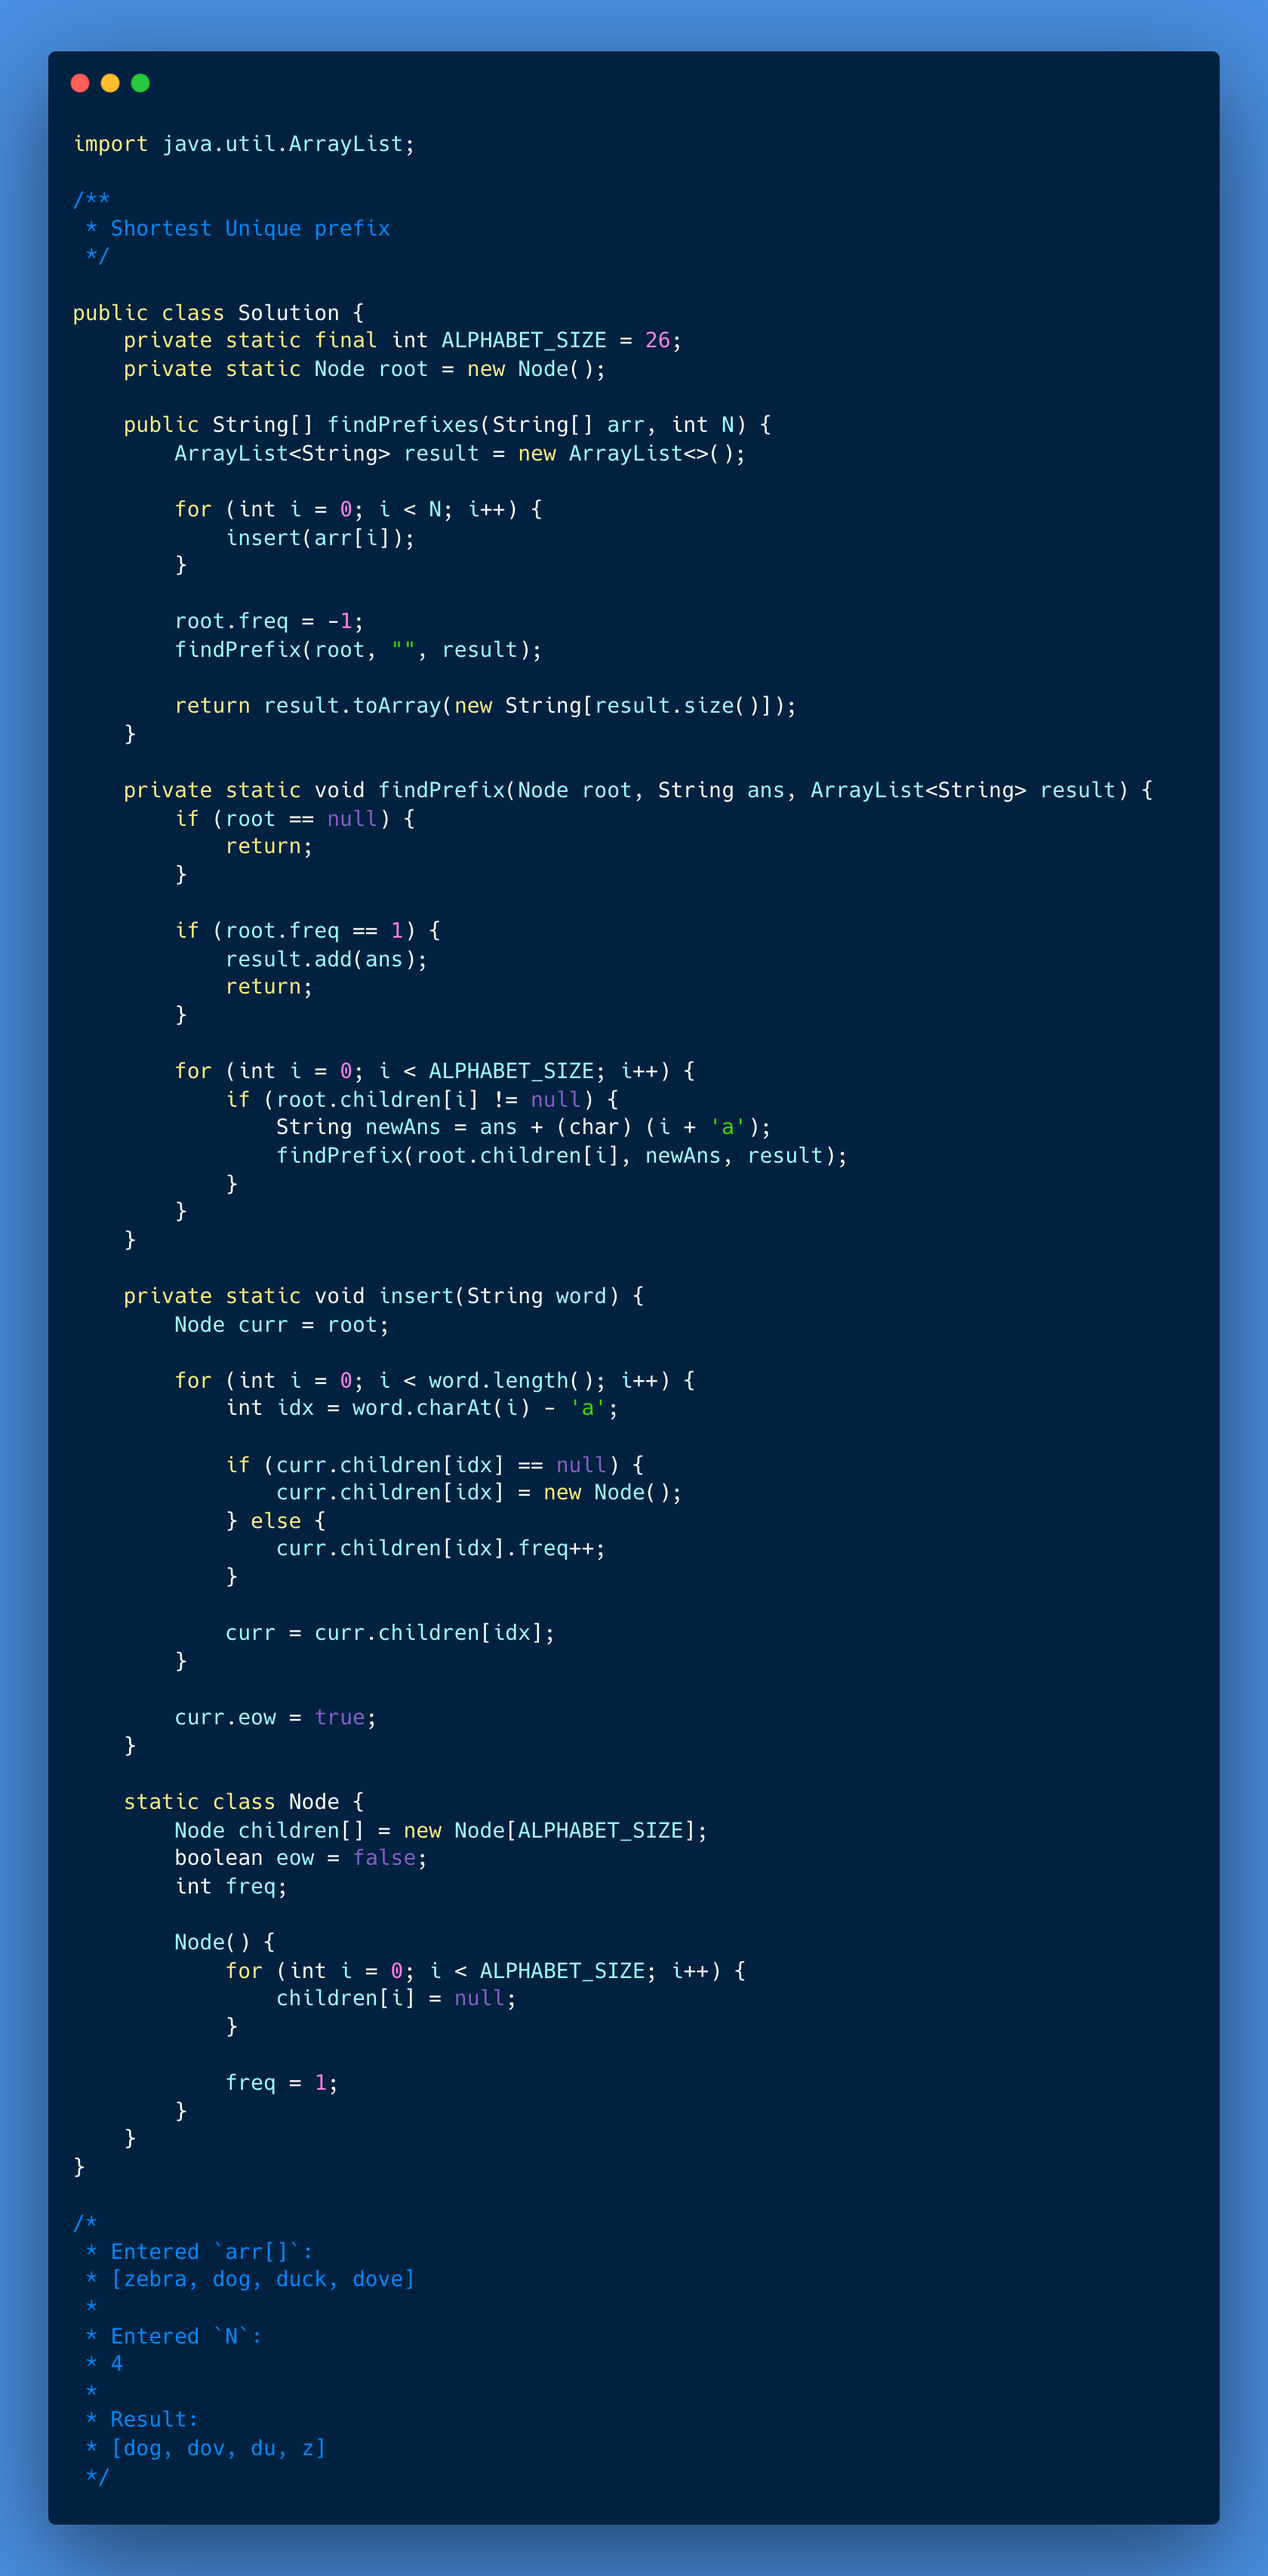
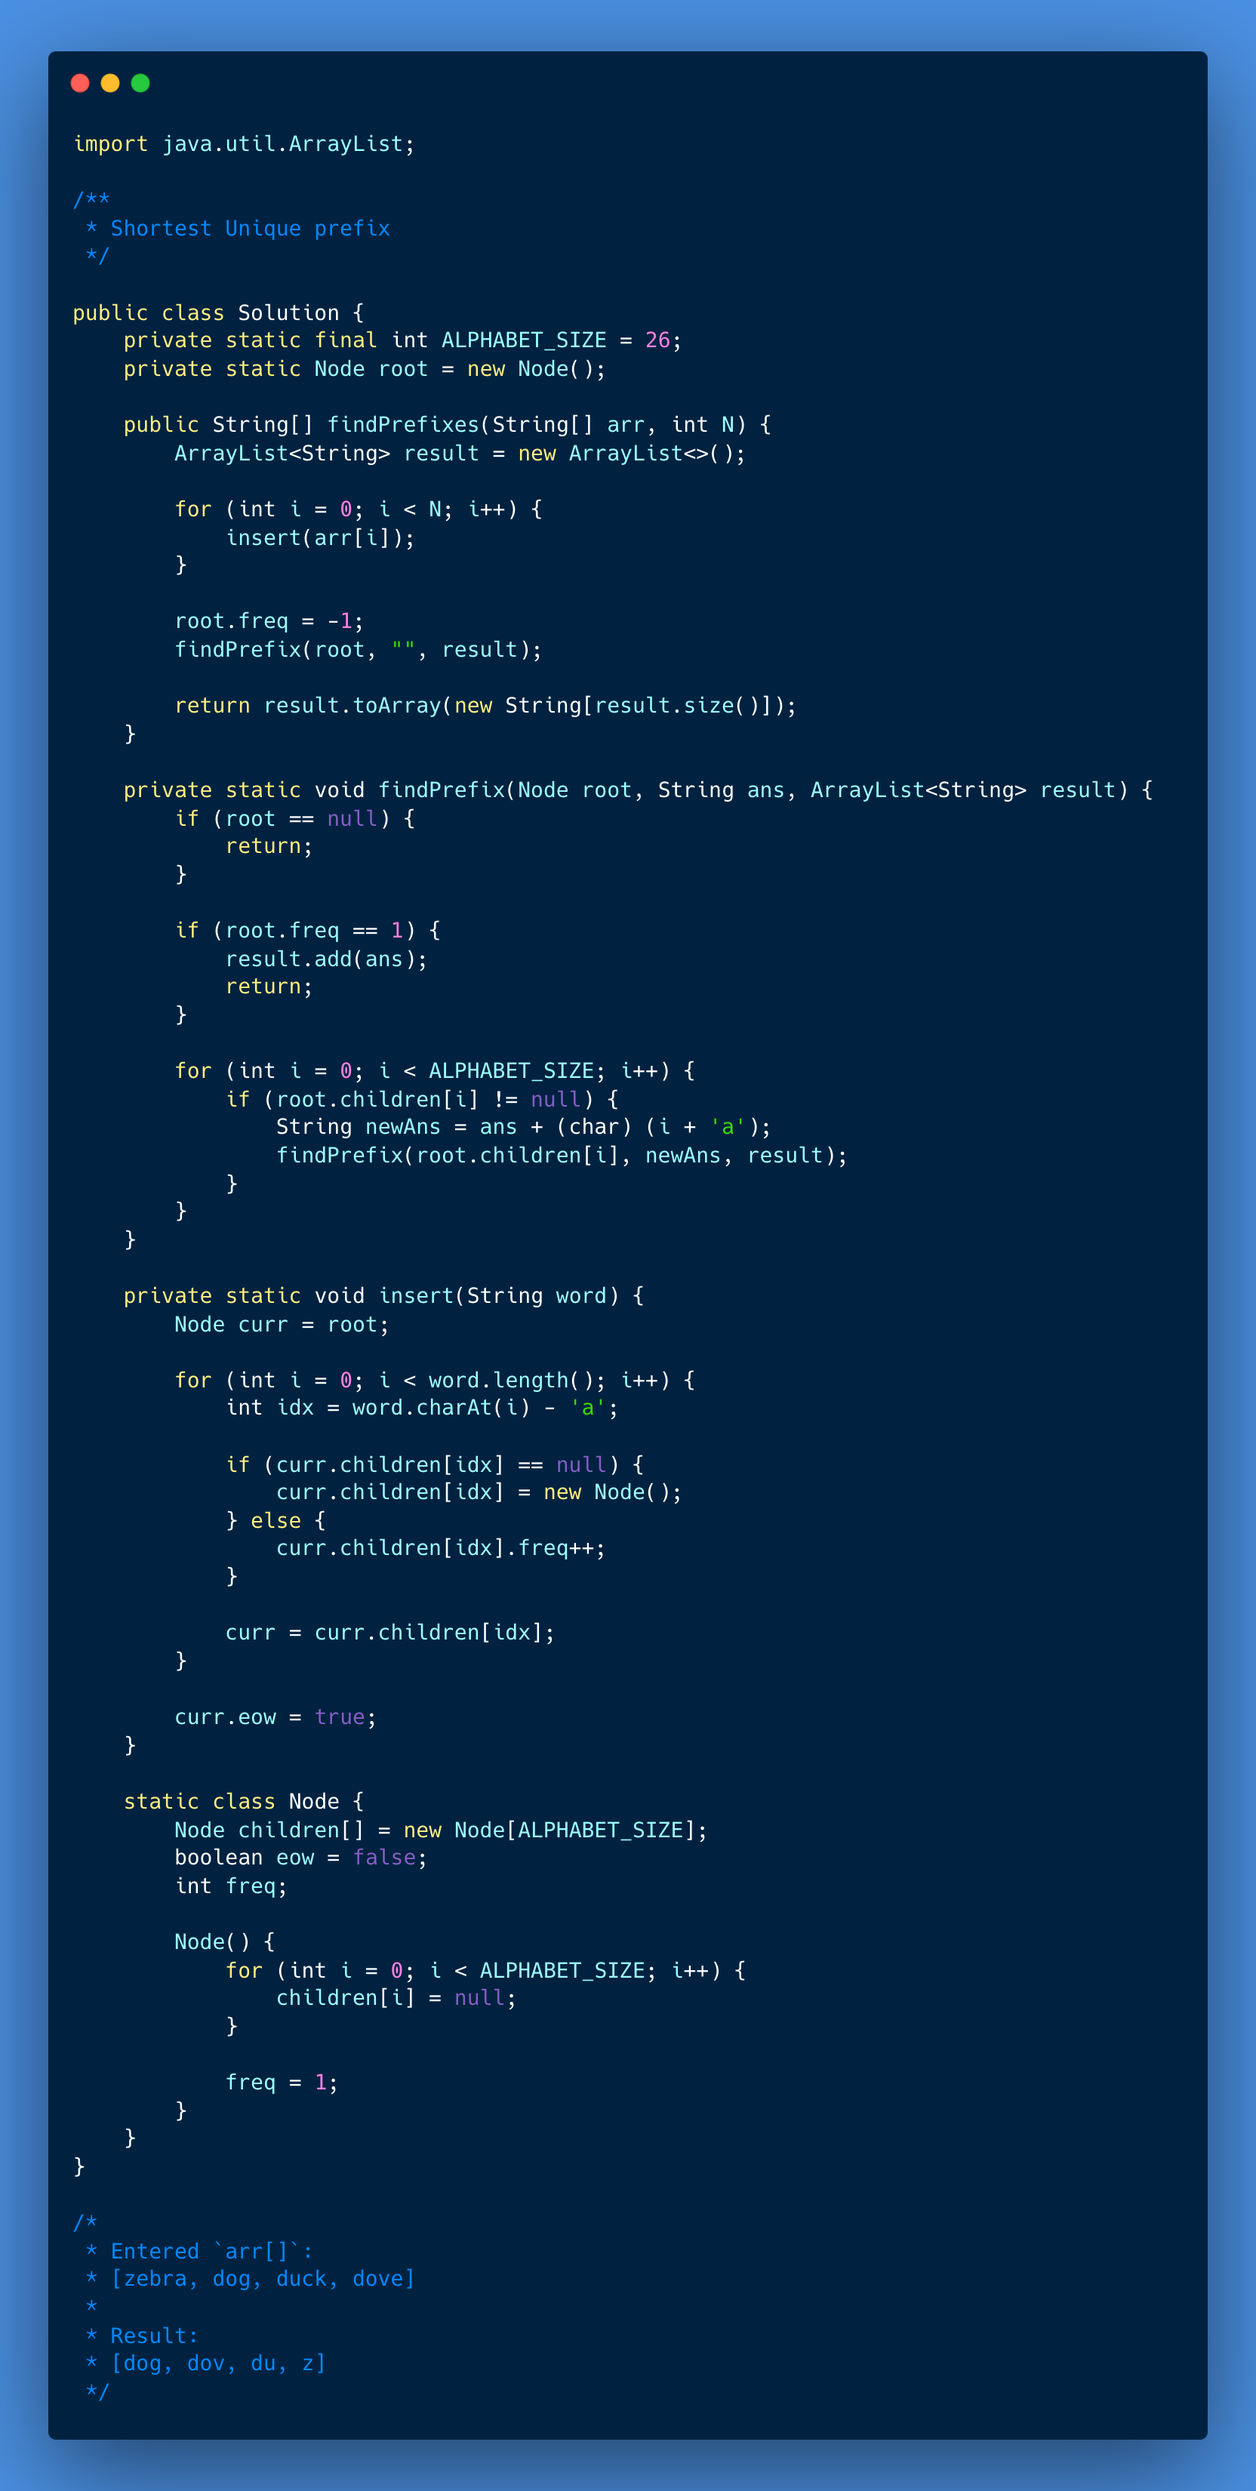
Solve Problem: Shortest Unique prefix

diff --git a/227-shortest-unique-prefix/001-solution/Main.java b/227-shortest-unique-prefix/001-solution/Main.java
@@ -26,10 +26,6 @@ public class Main {
         System.out.println("Entered `arr[]`: ");
         System.out.println(Arrays.toString(arr));
 
-        System.out.println();
-        System.out.println("Entered `N`: ");
-        System.out.println(N);
-
         // Solution
         Solution solution = new Solution();
         String[] result = solution.findPrefixes(arr, N);

diff --git a/227-shortest-unique-prefix/001-solution/Solution.java b/227-shortest-unique-prefix/001-solution/Solution.java
@@ -76,9 +76,6 @@ public class Solution {
  * Entered `arr[]`:
  * [zebra, dog, duck, dove]
  * 
- * Entered `N`:
- * 4
- * 
  * Result:
  * [dog, dov, du, z]
  */
